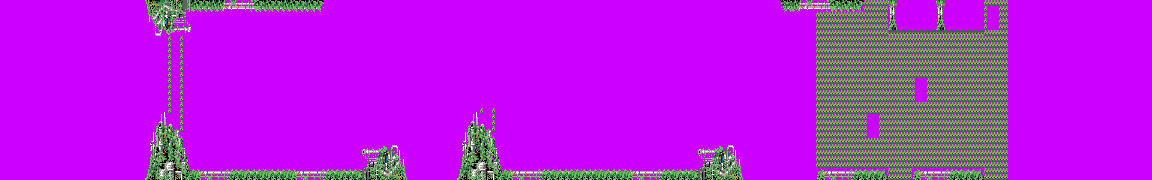
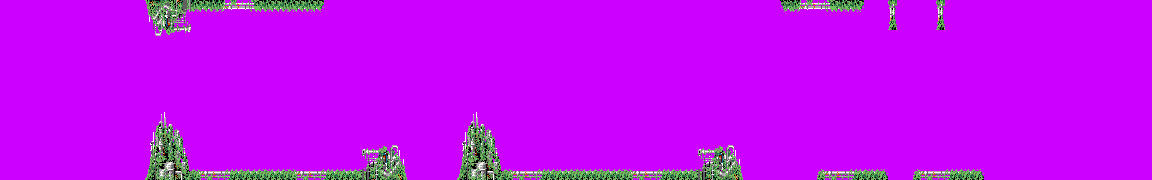
feat(r-type-overlay): phase 1 des gommes — le champ sort du decor
Premiere phase du plan (plan-gommes-stage4.md) : les 1 618 cellules du champ
de gommes quittent les tuiles compilees, ou une couche de rendu dediee les
reprendra en phase 3. Aucun runtime touche — a la fin de ce commit le stage 4
montre son decor et un champ vide.

Mesure, sur la salle (colonne 68, le pire cadrage d'avant) :

  DrawTiles   185 tuiles dessinees -> 21     120 597 cy -> 11 841 cy/trame
                                            6,04 trames video -> 0,59
  tileset pair    73 tuiles, 16 853 o -> 64 tuiles, 14 153 o
  tileset impair  90 tuiles, 20 120 o -> 72 tuiles, 14 850 o

Le tileset pair tenait sur deux pages, il tient desormais sur une. Et la salle
n'est plus le pire endroit du niveau pour DrawTiles : c'est la colonne 12, a
24 803 cycles.

Deux outils, parce que les deux moments existent :

  arcade_to_in.py --masque    a la CONVERSION, depuis le plan arcade. Chemin
                              canonique : la campagne palette rejouee garde les
                              cellules sorties sans qu'on y pense.
  strip_cells.py              sur un in.png DEJA converti, sans le regenerer.

Le second n'est pas une commodite. Regenerer l'in.png du stage 4 rejouerait
aussi la correction « espace d'affichage » du 20/08, pas encore passee sur ce
stage : 1 649 px changent d'emplacement de palette (11 -> 10, un peche clair
vers un orange soutenu). C'est legitime et sans doute souhaitable — l'ancienne
[…]

Changed region(s): [[0.6875, 0.0, 0.875, 1.0], [0.4062, 0.6111, 0.4375, 0.6389]]

diff --git a/games/r-type-overlay/tools/arcade_to_in.py b/games/r-type-overlay/tools/arcade_to_in.py
@@ -20,6 +20,20 @@ avertissement. Voir `tools/map_alpha.py`, qui pose la même information sur une
 image DÉJÀ convertie et qui a remplacé l'heuristique par blocs 3x6 de
 `sky_transparent.py`.
 
+## Sortir des cellules du décor (`--masque`)
+
+Une couche de rendu dédiée peut posséder certaines cellules — le champ de
+gommes du stage 4 en est le cas : 1 618 cellules que le runtime dessine et
+détruit, et qui n'ont donc rien à faire dans les tuiles compilées. L'option
+prend un bitfield packé au format des masques de collision (une cellule 3x6
+par bit) et force ces cellules en transparent : plus de pixel opaque, donc
+plus de tuile.
+
+Le masque ne touche que l'image écrite, **pas le recensement des couleurs** :
+ces cellules restent affichées à l'écran, par une autre couche, donc la
+palette doit continuer à les servir. Les sortir du vote permuterait les
+emplacements du stage.
+
 Réduction : 3/8 en X, 3/4 en Y, au plus proche voisin — 3072x240 devient
 1152x180. Mesuré : rejoué sur le stage 5, ce sous-échantillonnage reproduit
 `in.png` du dépôt au pixel près (100 % des 207 360 pixels), une fois la
@@ -189,6 +203,49 @@ def masque_alpha(src, width, height):
     w, h = src.size
     return [[trns[sp[x * w // width, y * h // height]] == 0 for x in range(width)]
             for y in range(height)]
+
+
+def applique_masque(chemin, alpha, width, height):
+    """Force en transparent les cellules 3x6 designees par un bitfield packe.
+
+    Le fichier est au format des masques de collision du jeu : une rangee de
+    cellules par tranche de `largeur_en_cellules / 8` octets, bit 7 = cellule
+    la plus a gauche. Une cellule couvre 3x6 px dans l'image reduite — c'est
+    la granularite du bit de collision, et donc celle des gommes du stage 4.
+
+    Sert a sortir du decor ce qu'une couche dediee dessinera au runtime : les
+    cellules retirees n'ont plus de pixel opaque, donc plus de tuile.
+
+    IMPORTANT : le masque ne touche QUE l'image ecrite, pas le recensement des
+    couleurs. Ces cellules restent affichees a l'ecran — par une autre couche —
+    donc la palette doit continuer a les servir. Les sortir du vote
+    permuterait les emplacements du stage et ferait deriver les couleurs de la
+    couche a la premiere recampagne palette (mesure sur le stage 4 : les
+    gommes pesent la moitie des pixels peints).
+
+    Rend (nb de cellules masquees, nouvel alpha) sans modifier celui recu.
+    """
+    cols, rows = width // 3, height // 6
+    stride = cols // 8
+    with open(chemin, 'rb') as f:
+        data = f.read()
+    attendu = stride * rows
+    if len(data) != attendu:
+        raise SystemExit('masque %s : %d octets, attendu %d (%d cellules x %d '
+                         'rangees)' % (chemin, len(data), attendu, cols, rows))
+    sortie = ([list(l) for l in alpha] if alpha is not None
+              else [[False] * width for _ in range(height)])
+    n = 0
+    for cy in range(rows):
+        for cx in range(cols):
+            if not (data[cy * stride + cx // 8] >> (7 - (cx % 8))) & 1:
+                continue
+            n += 1
+            for dy in range(6):
+                ligne = sortie[cy * 6 + dy]
+                for dx in range(3):
+                    ligne[cx * 3 + dx] = True
+    return n, sortie
 
 
 def dist(a, b):
@@ -414,6 +471,8 @@ def main():
     ap.add_argument('--free', default=','.join(map(str, FREE_DEFAULT)))
     ap.add_argument('--out', default=None)
     ap.add_argument('--dry-run', action='store_true')
+    ap.add_argument('--masque', default=None,
+                    help='bitfield packe de cellules 3x6 a forcer transparentes')
     ap.add_argument('--pal-next', action='store_true')
     ap.add_argument('--metrique', default='lab', choices=sorted(METRIQUES))
     ap.add_argument('--plancher', type=float, default=0.1)
@@ -446,6 +505,15 @@ def main():
     width, height = round(w * SCALE_X), round(h * SCALE_Y)
     small = downscale(src, width, height)
     alpha = masque_alpha(plan, width, height)
+    # `alpha` sert au RECENSEMENT des couleurs, `alpha_sortie` a l'IMAGE : les
+    # cellules masquees restent affichees (par une autre couche), donc elles
+    # gardent leur voix au choix de la palette. Voir applique_masque.
+    alpha_sortie = alpha
+    if args.masque:
+        n, alpha_sortie = applique_masque(args.masque, alpha, width, height)
+        print('masque %s : %d cellules 3x6 sorties du decor, gardees au '
+              'recensement (une couche dediee les dessine au runtime)'
+              % (args.masque, n))
 
     if args.pal_next:
         palette, free = palette_pal_next(args.stage)
@@ -540,7 +608,7 @@ def main():
     for y in range(height):
         for x in range(width):
             # index 0 = la transparence, convention de toute la chaine gfxcomp
-            op[x, y] = 0 if alpha and alpha[y][x] else mapping[sp[x, y]]
+            op[x, y] = 0 if alpha_sortie and alpha_sortie[y][x] else mapping[sp[x, y]]
     os.makedirs(os.path.dirname(out_path), exist_ok=True)
     out.save(out_path)
     print(f'\necrit {out_path}')

diff --git a/games/r-type-overlay/tools/strip_cells.py b/games/r-type-overlay/tools/strip_cells.py
@@ -1,0 +1,111 @@
+#!/usr/bin/env python3
+"""Retirer d'un `in.png` les cellules 3x6 désignées par un bitfield packé.
+
+    python3 tools/strip_cells.py <in.png> <masque.bin> [--dry-run]
+
+## À quoi ça sert
+
+Une couche de rendu dédiée peut posséder certaines cellules de la carte. Le cas
+du portage est le champ de gommes du stage 4 : 1 618 cellules que le runtime
+dessine et détruit depuis le bitfield de collision, et qui n'ont donc rien à
+faire dans les tuiles compilées. Les retirer de l'`in.png` fait disparaître les
+tuiles correspondantes du tileset et vide les entrées de la carte — la salle
+cesse de coûter 164 tuiles dessinées par trame.
+
+Les pixels retirés passent en **index 0**, la convention de transparence de
+toute la chaîne gfxcomp : plus de pixel opaque, donc plus de tuile. En overlay
+le champ est effacé au noir puis repeint chaque trame, une cellule vide n'a
+rien à dessiner.
+
+## Pourquoi cet outil ET l'option `--masque` d'arcade_to_in.py
+
+Les deux font la même chose à deux moments différents :
+
+- `arcade_to_in.py --masque` l'applique **à la conversion**, depuis le plan
+  arcade. C'est le chemin canonique : quand la campagne palette se rejoue, les
+  cellules restent sorties sans qu'on ait à y penser ;
+- celui-ci l'applique **à un `in.png` déjà converti**, sans le régénérer.
+
+Le second existe parce que régénérer un `in.png` ne rejoue pas seulement le
+masque : il rejoue aussi toutes les évolutions de l'outil depuis la dernière
+conversion du stage. Sur le stage 4, régénérer déplaçait 1 649 pixels d'un
+emplacement de palette à un autre (la correction « espace d'affichage » du
+20/08, pas encore rejouée sur ce stage) — un changement visible, légitime, mais
+qui est une décision de campagne palette et n'a rien à faire dans un commit qui
+retire des gommes. Cet outil garantit que le diff ne contient QUE les cellules
+masquées.
+
+## Le format du masque
+
+Celui des masques de collision du jeu : une cellule 3x6 par bit, `largeur en
+cellules / 8` octets par rangée, bit 7 = cellule la plus à gauche. C'est le
+format que produit `re.arcade.r-type --extract-ballfield`.
+"""
+import argparse
+import sys
+
+from PIL import Image
+
+
+def strip(chemin_png, chemin_masque, ecrire=True):
+    im = Image.open(chemin_png)
+    if im.mode != 'P':
+        raise SystemExit('%s n\'est pas une image indexee (mode %s)'
+                         % (chemin_png, im.mode))
+    width, height = im.size
+    cols, rows = width // 3, height // 6
+    stride = cols // 8
+
+    with open(chemin_masque, 'rb') as f:
+        data = f.read()
+    attendu = stride * rows
+    if len(data) != attendu:
+        raise SystemExit('masque %s : %d octets, attendu %d (%d cellules x %d '
+                         'rangees)' % (chemin_masque, len(data), attendu,
+                                       cols, rows))
+
+    px = im.load()
+    cellules = 0
+    pixels = 0
+    deja = 0
+    for cy in range(rows):
+        for cx in range(cols):
+            if not (data[cy * stride + cx // 8] >> (7 - (cx % 8))) & 1:
+                continue
+            cellules += 1
+            for dy in range(6):
+                for dx in range(3):
+                    x, y = cx * 3 + dx, cy * 6 + dy
+                    if px[x, y] == 0:
+                        deja += 1
+                    else:
+                        pixels += 1
+                        if ecrire:
+                            px[x, y] = 0
+
+    print('%s : %d cellules masquees, %d px passes en index 0 '
+          '(%d etaient deja transparents)'
+          % (chemin_png, cellules, pixels, deja))
+    if ecrire:
+        # la palette est inchangee : on ne touche qu'aux indices
+        im.save(chemin_png)
+        print('ecrit %s' % chemin_png)
+    return cellules, pixels
+
+
+def main():
+    ap = argparse.ArgumentParser(add_help=False)
+    ap.add_argument('image')
+    ap.add_argument('masque')
+    ap.add_argument('--dry-run', action='store_true')
+    ap.add_argument('-h', '--help', action='store_true')
+    args = ap.parse_args()
+    if args.help:
+        print(__doc__)
+        return 0
+    strip(args.image, args.masque, ecrire=not args.dry_run)
+    return 0
+
+
+if __name__ == '__main__':
+    sys.exit(main())
